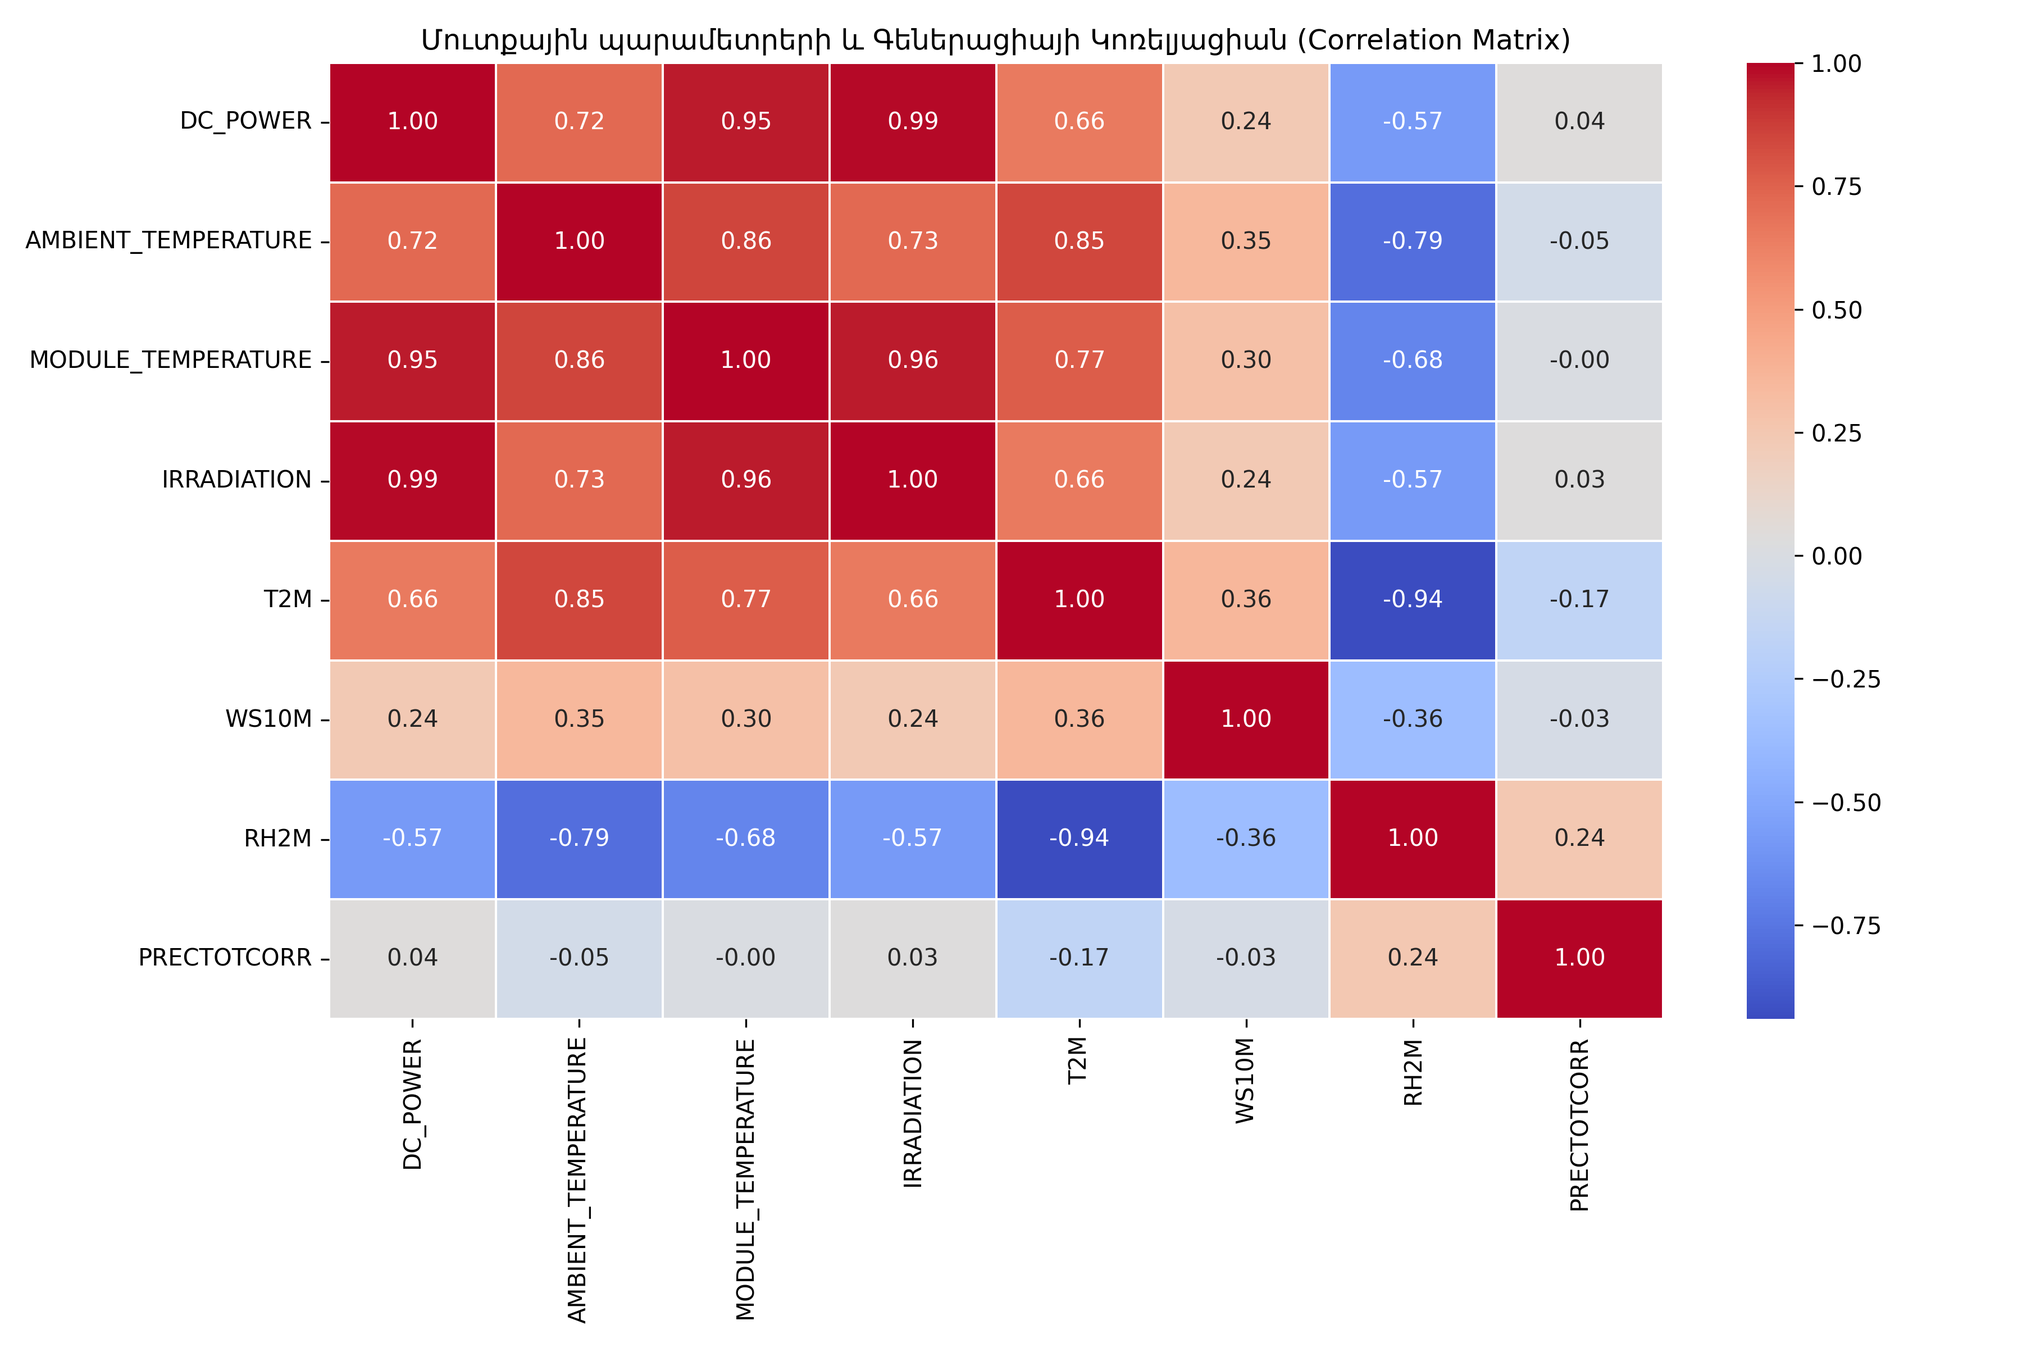
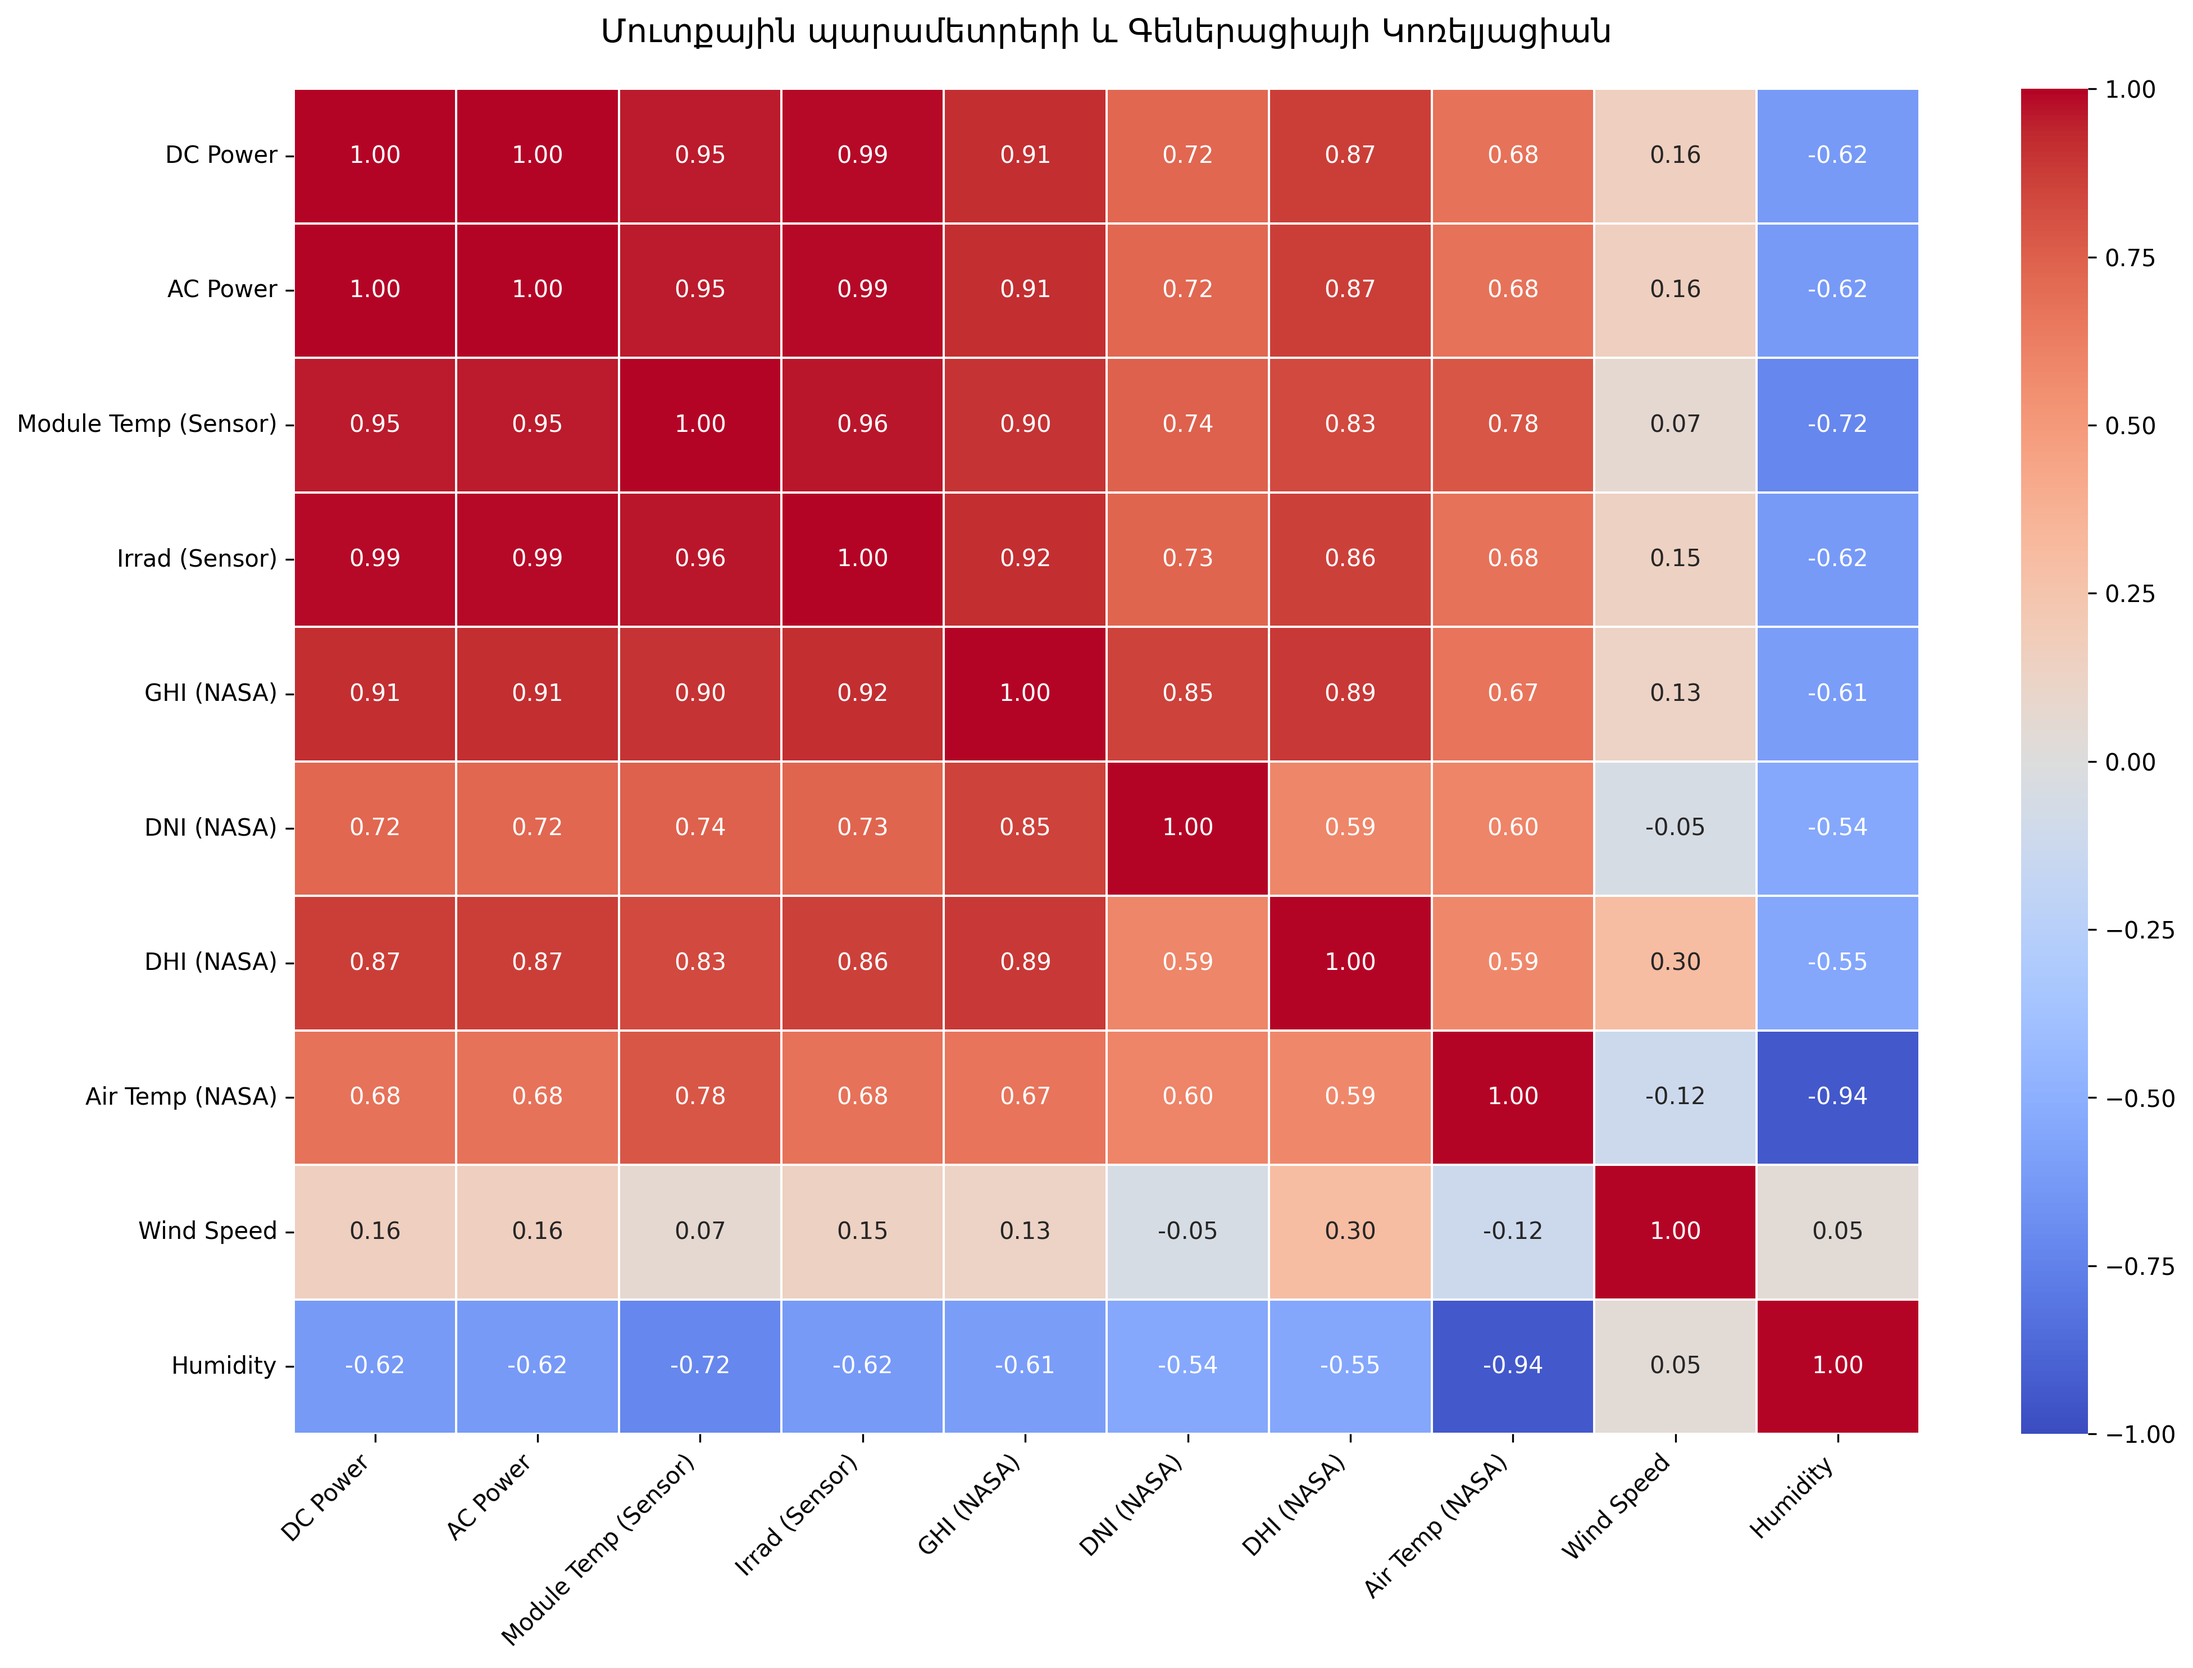
add shap

diff --git a/webPage/pages/1_ML_Pipeline.py b/webPage/pages/1_ML_Pipeline.py
@@ -7,6 +7,8 @@ import json
 import plotly.graph_objects as go
 from xgboost import XGBRegressor
 from datetime import datetime
+import shap
+import matplotlib.pyplot as plt
 
 # ==========================================
 # 1. ԷՋԻ ԿԱՐԳԱՎՈՐՈՒՄՆԵՐ ԵՎ ՀԻՇՈՂՈՒԹՅՈՒՆ (STATE)
@@ -75,7 +77,7 @@ temp_model, power_model, config = load_models()
 # ==========================================
 # 3. ՆԵՐԴԻՐՆԵՐԻ (TABS) ՍՏԵՂԾՈՒՄ
 # ==========================================
-tab1, tab2 = st.tabs(["📊 Կանխատեսում (Dashboard)", "🧠 Մոդելների Ուսուցում (Training)"])
+tab1, tab2, tab3 = st.tabs(["📊 Կանխատեսում (Dashboard)", "🧠 Մոդելների Ուսուցում (Training)", "💡 Մոդելի Մեկնաբանելիություն (SHAP)"])
 
 # ==========================================
 # ՆԵՐԴԻՐ 1: ԿԱՆԽԱՏԵՍՈՒՄ (DASHBOARD)
@@ -189,6 +191,8 @@ with tab2:
                 df_local = pd.merge(df_gen, df_wea, on=['DATE_TIME', 'PLANT_ID'], suffixes=('_gen', '_wea'))
                 df_local['HOUR_ROUNDED'] = df_local['DATE_TIME'].dt.floor('h')
                 df_final = pd.merge(df_local, df_nasa, left_on='HOUR_ROUNDED', right_on='DATE_TIME', suffixes=('', '_nasa'))
+                # save df_final to a temporary CSV for debugging
+                df_final.to_csv('./.env/df_final_debug.csv', index=False)
                 
                 st.info("4/4. XGBoost մոդելների վարժեցում... (սպասեք փուչիկներին 🎈)")
                 
@@ -210,7 +214,7 @@ with tab2:
                 
                 # Կոնֆիգի թարմացում
                 new_config = {"location": {"latitude": train_lat, "longitude": train_lon}}
-                with open('config.json', 'w') as f:
+                with open('./.env/config.json', 'w') as f:
                     json.dump(new_config, f)
                 
                 # Քեշի մաքրում՝ նոր մոդելները ակտիվացնելու համար
@@ -223,3 +227,94 @@ with tab2:
                 st.error(f"❌ Տվյալների մշակման սխալ: Համոզվեք, որ CSV սյունակները համապատասխանում են ստանդարտին: {e}")
         else:
             st.warning("Ուսուցումը սկսելու համար անհրաժեշտ է բեռնել երկու ֆայլերն էլ:")
+
+
+# ==========================================
+# ՆԵՐԴԻՐ 3: ՄՈԴԵԼԻ ՄԵԿՆԱԲԱՆԵԼԻՈՒԹՅՈՒՆ (SHAP)
+# ==========================================
+with tab3:
+    st.markdown("### 💡 Արհեստական Ինտելեկտի Բացատրելիություն (SHAP Analysis)")
+    
+    if power_model is None:
+        st.warning("⚠ Մոդելը բացակայում է: Խնդրում ենք նախ վարժեցնել այն «Մոդելների Ուսուցում» բաժնում:")
+    elif st.session_state.df_future is None:
+        st.info("👈 Խնդրում ենք նախ անցնել «Կանխատեսում» ներդիր, մուտքագրել օրերը և սեղմել «Կանխատեսել», որպեսզի համակարգն ունենա տվյալներ վերլուծության համար:")
+    else:
+        st.markdown("Այս բաժինը թույլ է տալիս հասկանալ «Սև արկղի» (XGBoost) կայացրած որոշումները։ Տեսեք, թե ինչպես են օդերևութաբանական գործոններն ազդել վերջնական հզորության վրա:")
+        
+        # Վերցնում ենք Կանխատեսման ներդիրում գեներացված ապագա տվյալները
+        df_shap = st.session_state.df_future.copy()
+        X_shap = df_shap[['IRRADIATION', 'MODULE_TEMPERATURE', 'T2M', 'WS10M', 'RH2M', 'PRECTOTCORR']]
+        
+        # SHAP արժեքների հաշվարկման ֆունկցիա (քեշավորված արագության համար)
+        @st.cache_data
+        def calculate_shap_values(_model, X):
+            explainer = shap.TreeExplainer(_model)
+            shap_values = explainer(X)
+            
+            armenian_names = {
+                'IRRADIATION': 'Ճառագայթում (կՎտ/մ²)',
+                'MODULE_TEMPERATURE': 'Վահանակի Ջերմ. (°C)',
+                'T2M': 'Օդի Ջերմաստիճան (°C)',
+                'WS10M': 'Քամու Արագություն (մ/վ)',
+                'RH2M': 'Խոնավություն (%)',
+                'PRECTOTCORR': 'Տեղումներ (մմ)'
+            }
+            shap_values.feature_names = [armenian_names.get(name, name) for name in X.columns]
+            
+            return explainer, shap_values
+
+        with st.spinner("Հաշվարկվում են SHAP մատրիցաները..."):
+            explainer, shap_values = calculate_shap_values(power_model, X_shap)
+        
+        # --- 1. ԳԼՈԲԱԼ ՄԵԿՆԱԲԱՆՈՒԹՅՈՒՆ (Summary Plot) ---
+        st.markdown("---")
+        st.subheader("1. Հատկանիշների գլոբալ ազդեցությունը (Summary Plot)")
+        st.write("Այս գրաֆիկը ցույց է տալիս, թե ընդհանուր առմամբ որ պարամետրերն ունեն ամենամեծ ազդեցությունը մոդելի վրա։ Կարմիր կետերը ցույց են տալիս տվյալ պարամետրի բարձր արժեքը, իսկ կապույտը՝ ցածր։")
+        
+        fig_summary = plt.figure(figsize=(12, 6))
+        shap.summary_plot(shap_values.values, X_shap, feature_names=shap_values.feature_names, plot_type="dot", show=False)
+        plt.subplots_adjust(left=0.35) 
+        st.pyplot(fig_summary)
+        plt.clf()
+
+        # --- 2. ԼՈԿԱԼ ՄԵԿՆԱԲԱՆՈՒԹՅՈՒՆ (Bar Plot) ---
+        st.markdown("---")
+        st.subheader("2. Լոկալ ազդեցություն (Մեկ կոնկրետ ժամվա վերլուծություն)")
+        st.write("Այս գրաֆիկը ցույց է տալիս, թե տվյալ պահին որ գործոններն են առավելապես նպաստել կամ խոչընդոտել էներգիայի արտադրությանը:")
+        
+        time_options = df_shap['DATE_TIME'].dt.strftime('%Y-%m-%d %H:%M').tolist()
+        selected_time = st.selectbox("📅 Ընտրեք ամսաթիվը և ժամը:", time_options)
+        hour_index = time_options.index(selected_time)
+        
+        fig_bar = plt.figure(figsize=(12, 6)) 
+        
+        shap.plots.bar(shap_values[hour_index], show=False)
+        
+        ax = plt.gca()
+        ax.tick_params(axis='y', pad=40) 
+        ax.grid(axis='x', color='gray', linestyle=':', linewidth=0.5, alpha=0.7)
+        
+        # =================================================================
+        # ՆՈՐ ԼՈՒԾՈՒՄ: Ձեռքով հաշվում և ավելացնում ենք բացակայող թվերը
+        
+        # 1. Վերցնում ենք բազային արժեքը (Expected Value)
+        base_val = shap_values[hour_index].base_values
+        
+        # 2. Վերջնական կանխատեսումը հավասար է բազային արժեք + բոլոր ազդեցությունները
+        final_val = base_val + shap_values[hour_index].values.sum()
+        
+        # 3. Գրում ենք ԲԱԶԱՅԻՆ արժեքը գրաֆիկի ՆԵՐՔԵՎՈՒՄ ԱՋԱԿՈՂՄՅԱՆ մասում
+        plt.figtext(0.95, 0.02, rf"$E[f(X)]$ = {base_val:.3f}", 
+                    fontsize=12, color='#777777', ha='right', va='bottom')
+        
+        # 4. Գրում ենք ՎԵՐՋՆԱԿԱՆ արժեքը գրաֆիկի ՎԵՐԵՎՈՒՄ ԱՋԱԿՈՂՄՅԱՆ մասում
+        plt.figtext(0.95, 0.95, rf"$f(x)$ = {final_val:.3f}", 
+                    fontsize=14, color='#222222', ha='right', va='top', weight='bold')
+        # =================================================================
+        
+        # Մի փոքր ավելի մեծ տեղ ենք թողնում վերևից ու ներքևից մեր գրած թվերի համար
+        plt.subplots_adjust(left=0.40, right=0.95, top=0.85, bottom=0.15) 
+        
+        st.pyplot(fig_bar)
+        plt.clf()

diff --git a/eda_analysis.py b/eda_analysis.py
@@ -2,33 +2,40 @@ import pandas as pd
 import matplotlib.pyplot as plt
 import seaborn as sns
 
-# 1. Կարդում ենք մեր արդեն միացված վերջնական բազան
 print("Բեռնում ենք տվյալները վերլուծության համար...")
-df = pd.read_csv('Final_Solar_Dataset.csv')
+df = pd.read_csv('Final_Master_Dataset.csv')
 
-# 2. Ստուգում ենք բազային ինֆորմացիան (կա՞ն արդյոք դատարկ վանդակներ)
-print("\nԲացակայող (դատարկ) արժեքների քանակը ըստ սյունակների:")
-print(df.isnull().sum())
+# --- Կոռելյացիոն Մատրիցա ---
+plt.figure(figsize=(14, 10))
 
-# --- ԳՐԱՖԻԿ 1. Վահանակի Ջերմաստիճանի և Հզորության Կապը ---
-# Տեսականորեն, շատ բարձր ջերմաստիճանը նվազեցնում է վահանակի ՕԳԳ-ն
-plt.figure(figsize=(10, 6))
-sns.scatterplot(data=df, x='MODULE_TEMPERATURE', y='DC_POWER', alpha=0.5, color='darkorange')
-plt.title('Վահանակի Ջերմաստիճանի ազդեցությունը Արտադրված Հզորության վրա')
-plt.xlabel('Վահանակի Ջերմաստիճան (°C)')
-plt.ylabel('Արտադրված Հոսանք (DC Power)')
-plt.grid(True)
-plt.savefig('temperature_vs_power.png', dpi=300) # Պահպանում է նկարը թեզի համար
-plt.show()
+# Ընտրում ենք միայն գեներացիայի և եղանակային թվային սյուները (առանց ID-ների և ամսաթվի)
+numeric_cols = df[['DC_POWER', 'AC_POWER', 'MODULE_TEMPERATURE', 'IRRADIATION', 
+                   'ALLSKY_SFC_SW_DWN', 'ALLSKY_SFC_SW_DNI', 'ALLSKY_SFC_SW_DIFF', 
+                   'T2M', 'WS10M', 'RH2M']]
 
-# --- ԳՐԱՖԻԿ 2. Կոռելյացիոն Մատրիցա ---
-# Ցույց է տալիս, թե որ պարամետրն է ամենաշատը կապված գեներացիայի հետ
-plt.figure(figsize=(12, 8))
-numeric_cols = df[['DC_POWER', 'MODULE_TEMPERATURE', 'IRRADIATION', 'T2M', 'WS10M', 'RH2M', 'PRECTOTCORR']]
+# Անվանումները դարձնում ենք պրոֆեսիոնալ և հասկանալի գրաֆիկի համար
+rename_dict = {
+    'DC_POWER': 'DC Power',
+    'AC_POWER': 'AC Power',
+    'MODULE_TEMPERATURE': 'Module Temp (Sensor)',
+    'IRRADIATION': 'Irrad (Sensor)',
+    'ALLSKY_SFC_SW_DWN': 'GHI (NASA)',
+    'ALLSKY_SFC_SW_DNI': 'DNI (NASA)',
+    'ALLSKY_SFC_SW_DIFF': 'DHI (NASA)',
+    'T2M': 'Air Temp (NASA)',
+    'WS10M': 'Wind Speed',
+    'RH2M': 'Humidity'
+}
+
+numeric_cols = numeric_cols.rename(columns=rename_dict)
 corr_matrix = numeric_cols.corr()
 
-sns.heatmap(corr_matrix, annot=True, cmap='coolwarm', fmt=".2f", linewidths=.5)
-plt.title('Մուտքային պարամետրերի և Գեներացիայի Կոռելյացիան (Correlation Matrix)')
+# Կառուցում ենք գրաֆիկը (vmin=-1 և vmax=1 ֆիքսված սանդղակով)
+sns.heatmap(corr_matrix, annot=True, cmap='coolwarm', fmt=".2f", linewidths=.5, vmin=-1, vmax=1)
+plt.title('Մուտքային պարամետրերի և Գեներացիայի Կոռելյացիան', pad=20, fontsize=14)
+plt.xticks(rotation=45, ha='right')
 plt.tight_layout()
-plt.savefig('correlation_matrix.png', dpi=300) # Պահպանում է նկարը թեզի համար
+
+# Պահպանում ենք պատրաստի նկարը images թղթապանակում
+plt.savefig('correlation_matrix.png', dpi=300, bbox_inches='tight') 
 plt.show()
